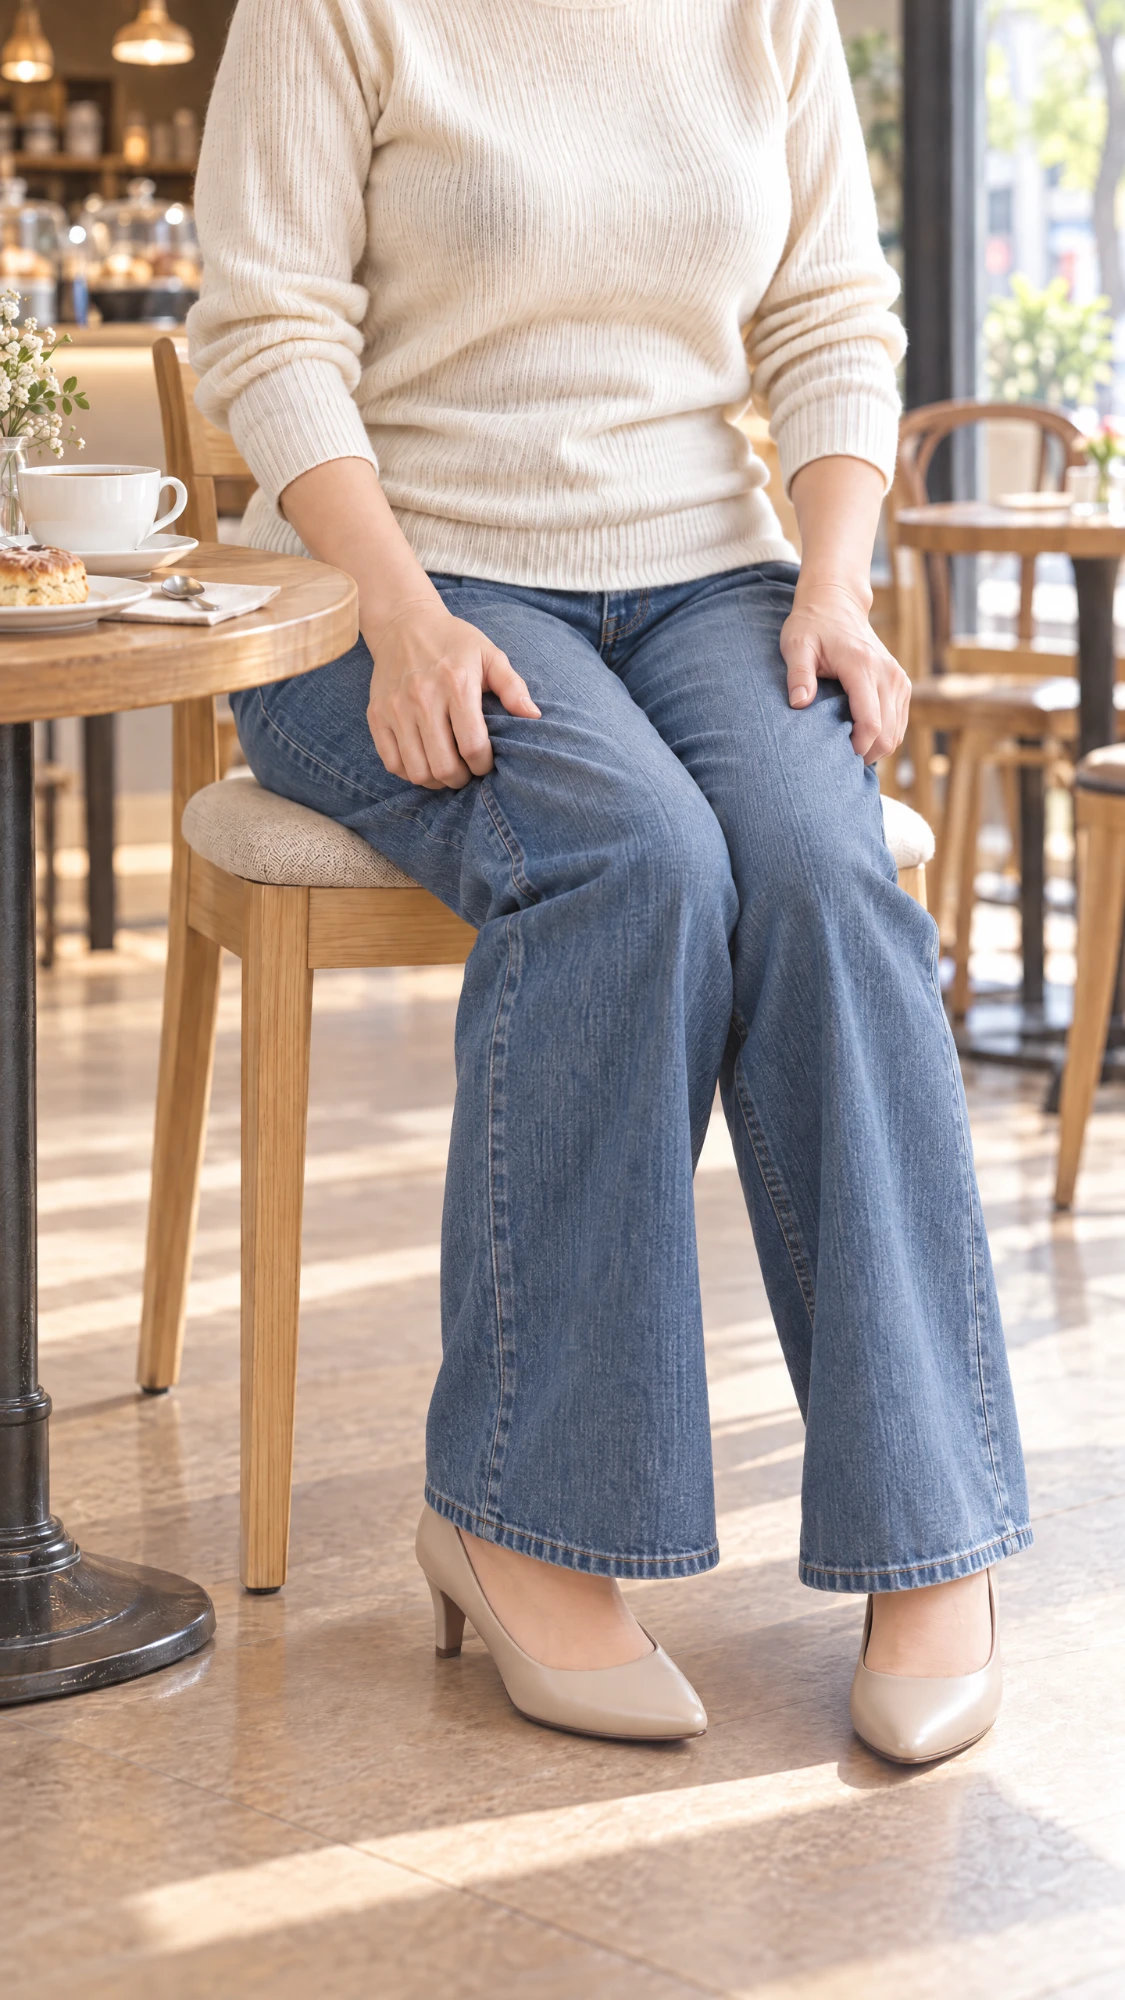
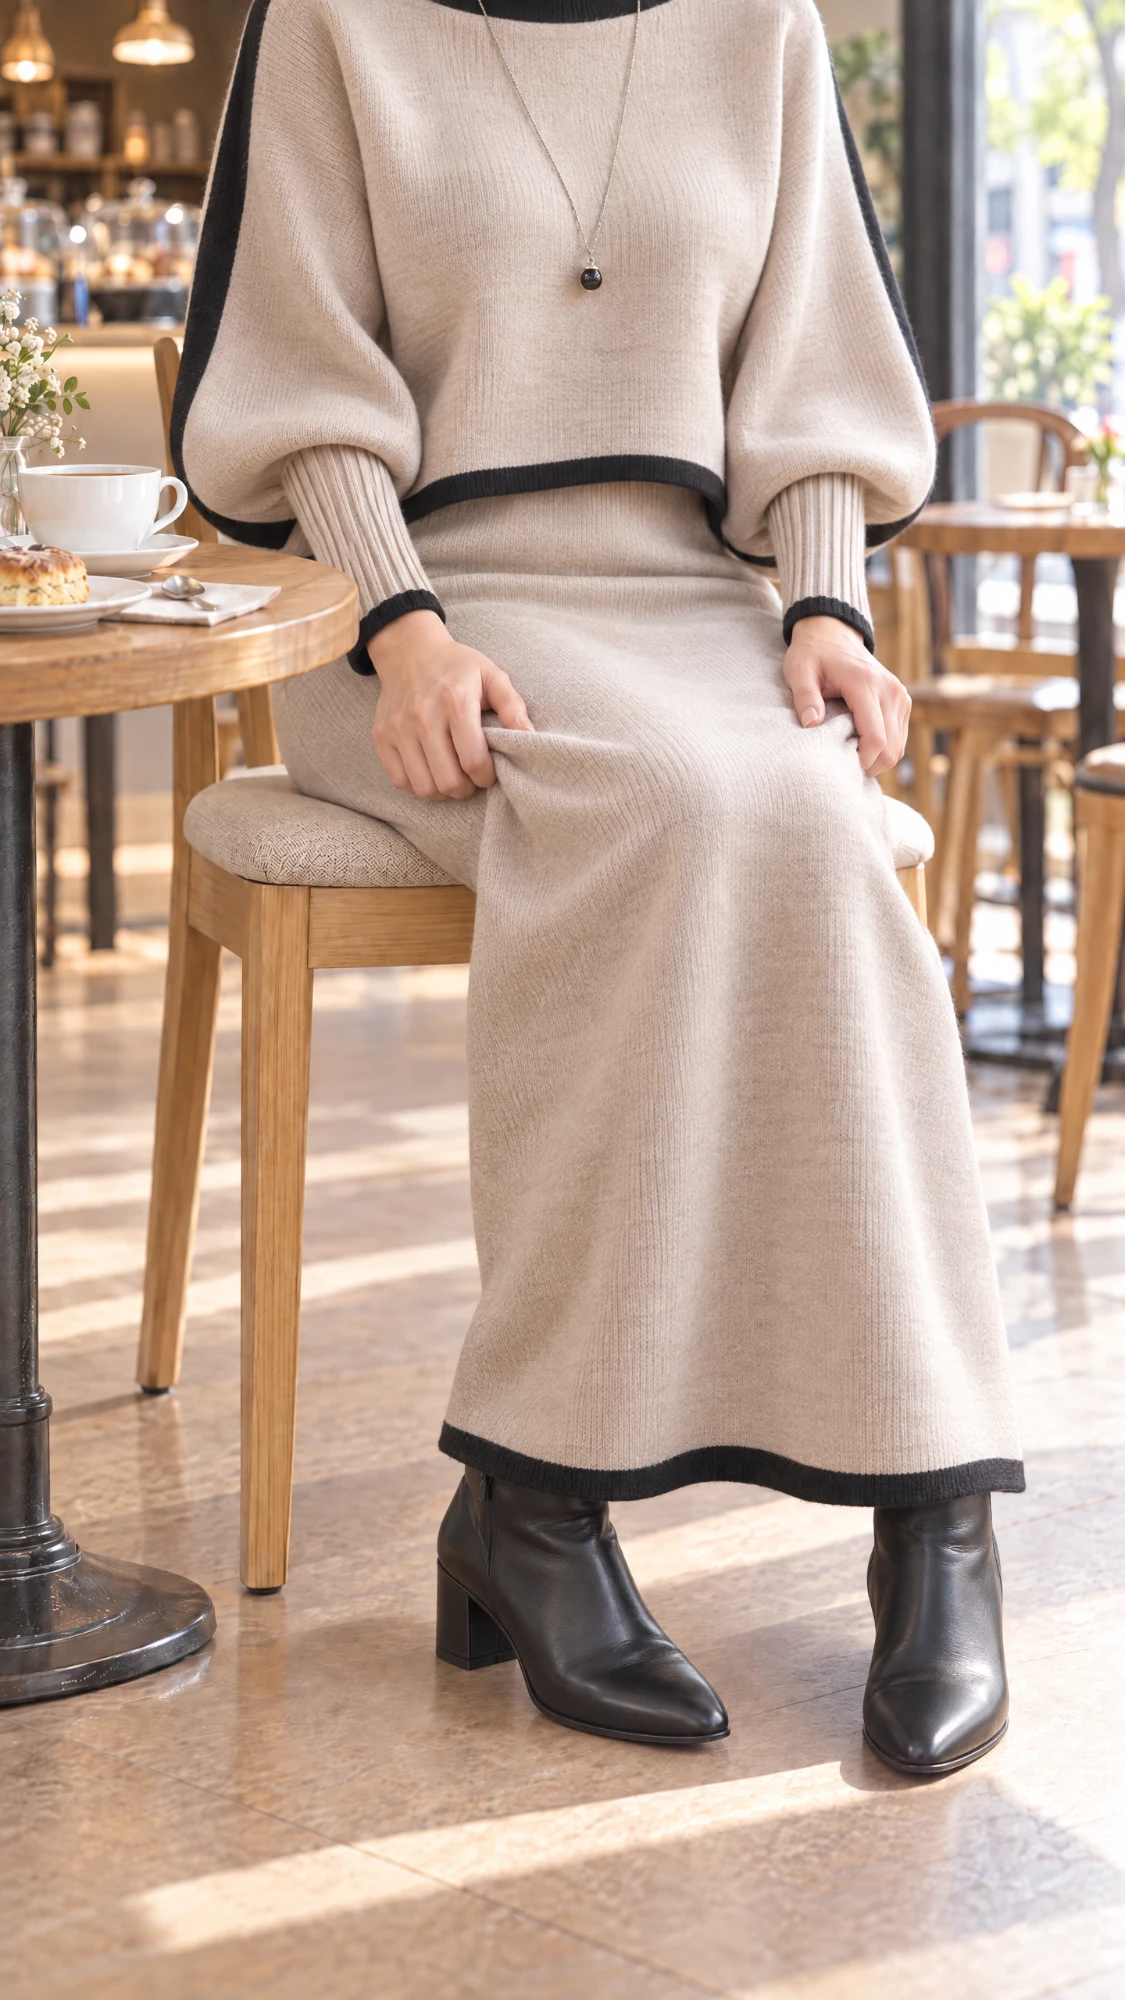
FV写真を差し替え、画像を上に詰める。バッジ文言を変更

diff --git a/index.html b/index.html
@@ -171,7 +171,7 @@
   .fv-hook { margin: 0; font-size: 13.5px; line-height: 1.7; border: 1px solid var(--line); box-shadow: 0 3px 12px rgba(120,80,60,.08); }
   .fv h1 { font-size: 28px; line-height: 1.38; color: var(--ink); text-shadow: none; margin: 4px 0 0; }
   .fv .sub { color: var(--ink-soft); text-shadow: none; margin: 0; font-size: 14px; line-height: 1.7; }
-  .fv-photo { position: relative; z-index: 1; margin-top: calc(var(--w) * -0.06); aspect-ratio: 1080 / 1400; overflow: hidden; pointer-events: none;
+  .fv-photo { position: relative; z-index: 1; margin-top: calc(var(--w) * -0.43); aspect-ratio: 1080 / 1400; overflow: hidden; pointer-events: none;
     -webkit-mask-image: linear-gradient(180deg, transparent 0, #000 14%, #000 84%, transparent 100%);
             mask-image: linear-gradient(180deg, transparent 0, #000 14%, #000 84%, transparent 100%); }
   .fv-photo img { display: block; width: 100%; height: auto; }
@@ -203,11 +203,11 @@
   <header class="fv" id="fv">
     <div class="fv-top">
       <span class="fv-badge">理学療法士資格保有／産婦人科で勤務</span>
-      <p class="fv-hook">「デリケートゾーン」「フェムケア」最近聞くけど、今さら「どうしたらいい？」なんて周りには聞きづらい。</p>
+      <p class="fv-hook">生理のたびに感じるかゆみや不快感。ナプキンを変えても変わらないなら、デリケートゾーンから変えてみない？</p>
       <h1>かゆみや不快感は<br>仕方ない？<span class="h1-sub">〜大人のデリケートゾーンケアの基本〜</span></h1>
       <p class="sub">医学的なことと、そうでないことを分けて、やさしくお伝えします。</p>
     </div>
-    <div class="fv-photo"><img src="assets/fv.webp" alt="カフェの椅子に座り、膝に手を添えている女性"></div>
+    <div class="fv-photo"><img src="assets/fv.webp" alt="カフェの椅子に座り、スカートに手を添えている女性"></div>
     <div class="fv-bottom">
       <div class="fv-date">
         <div><b>12/9（水）21:20〜</b><small>40分／Zoomでオンライン開催／定員8名</small></div>
